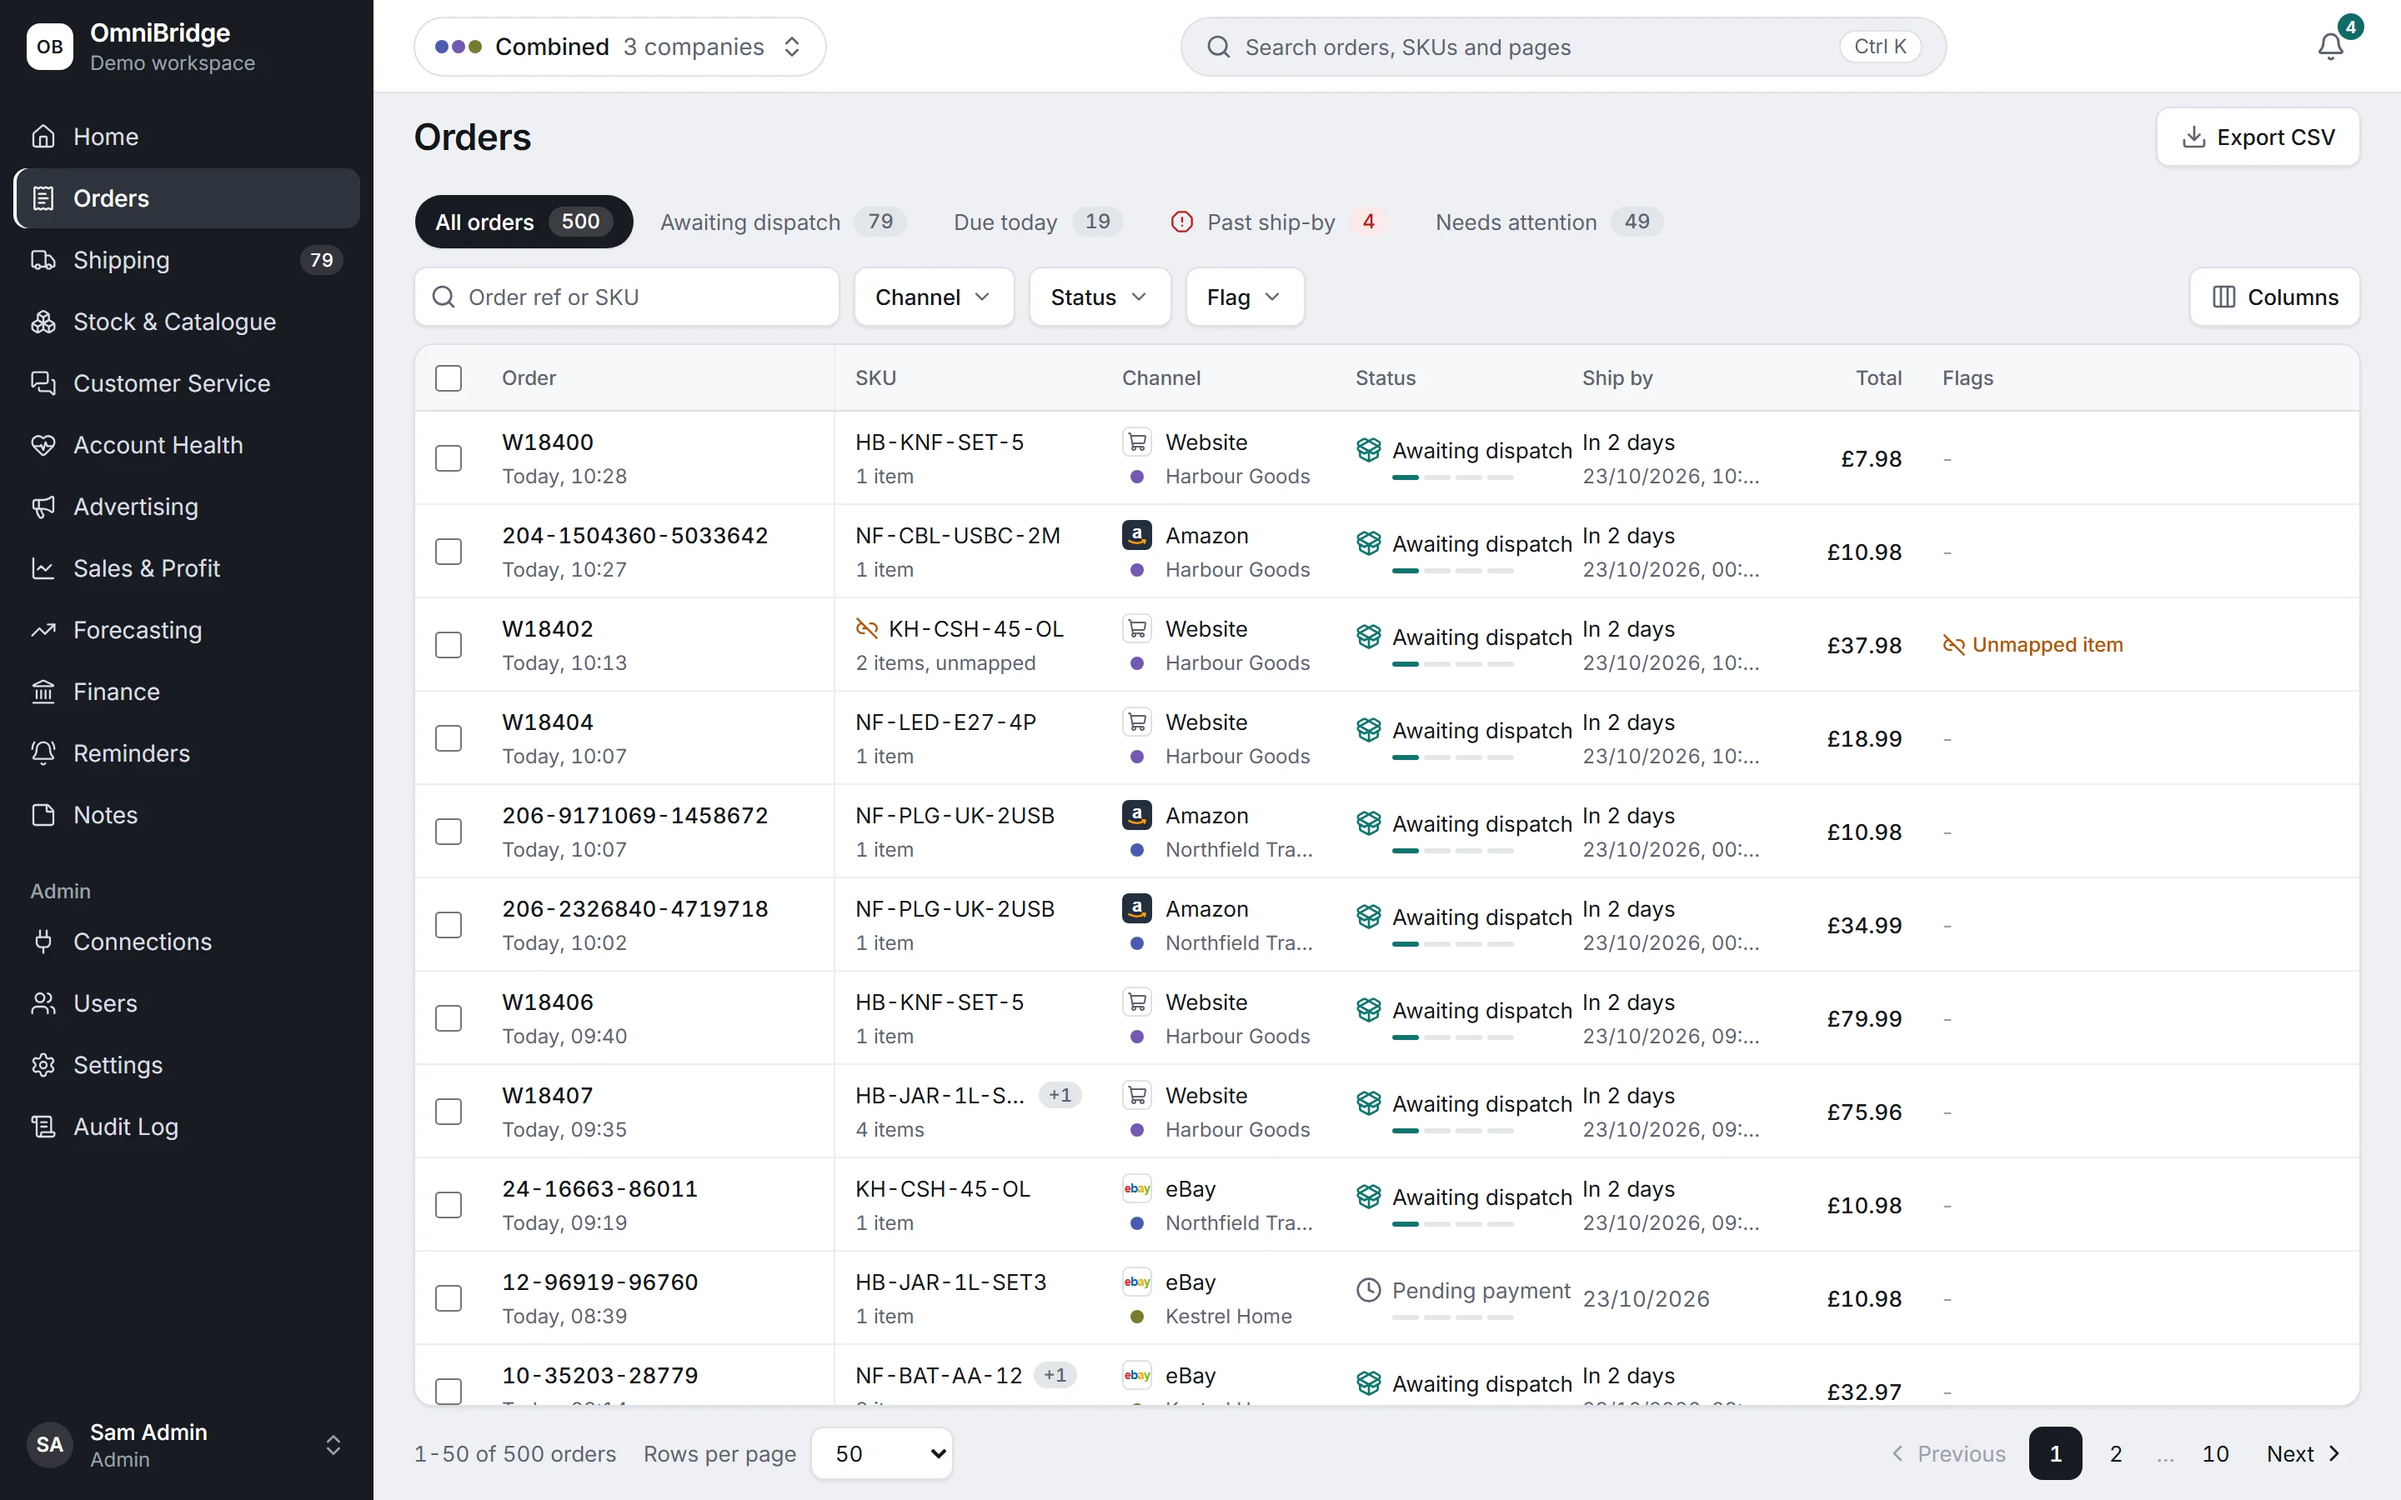
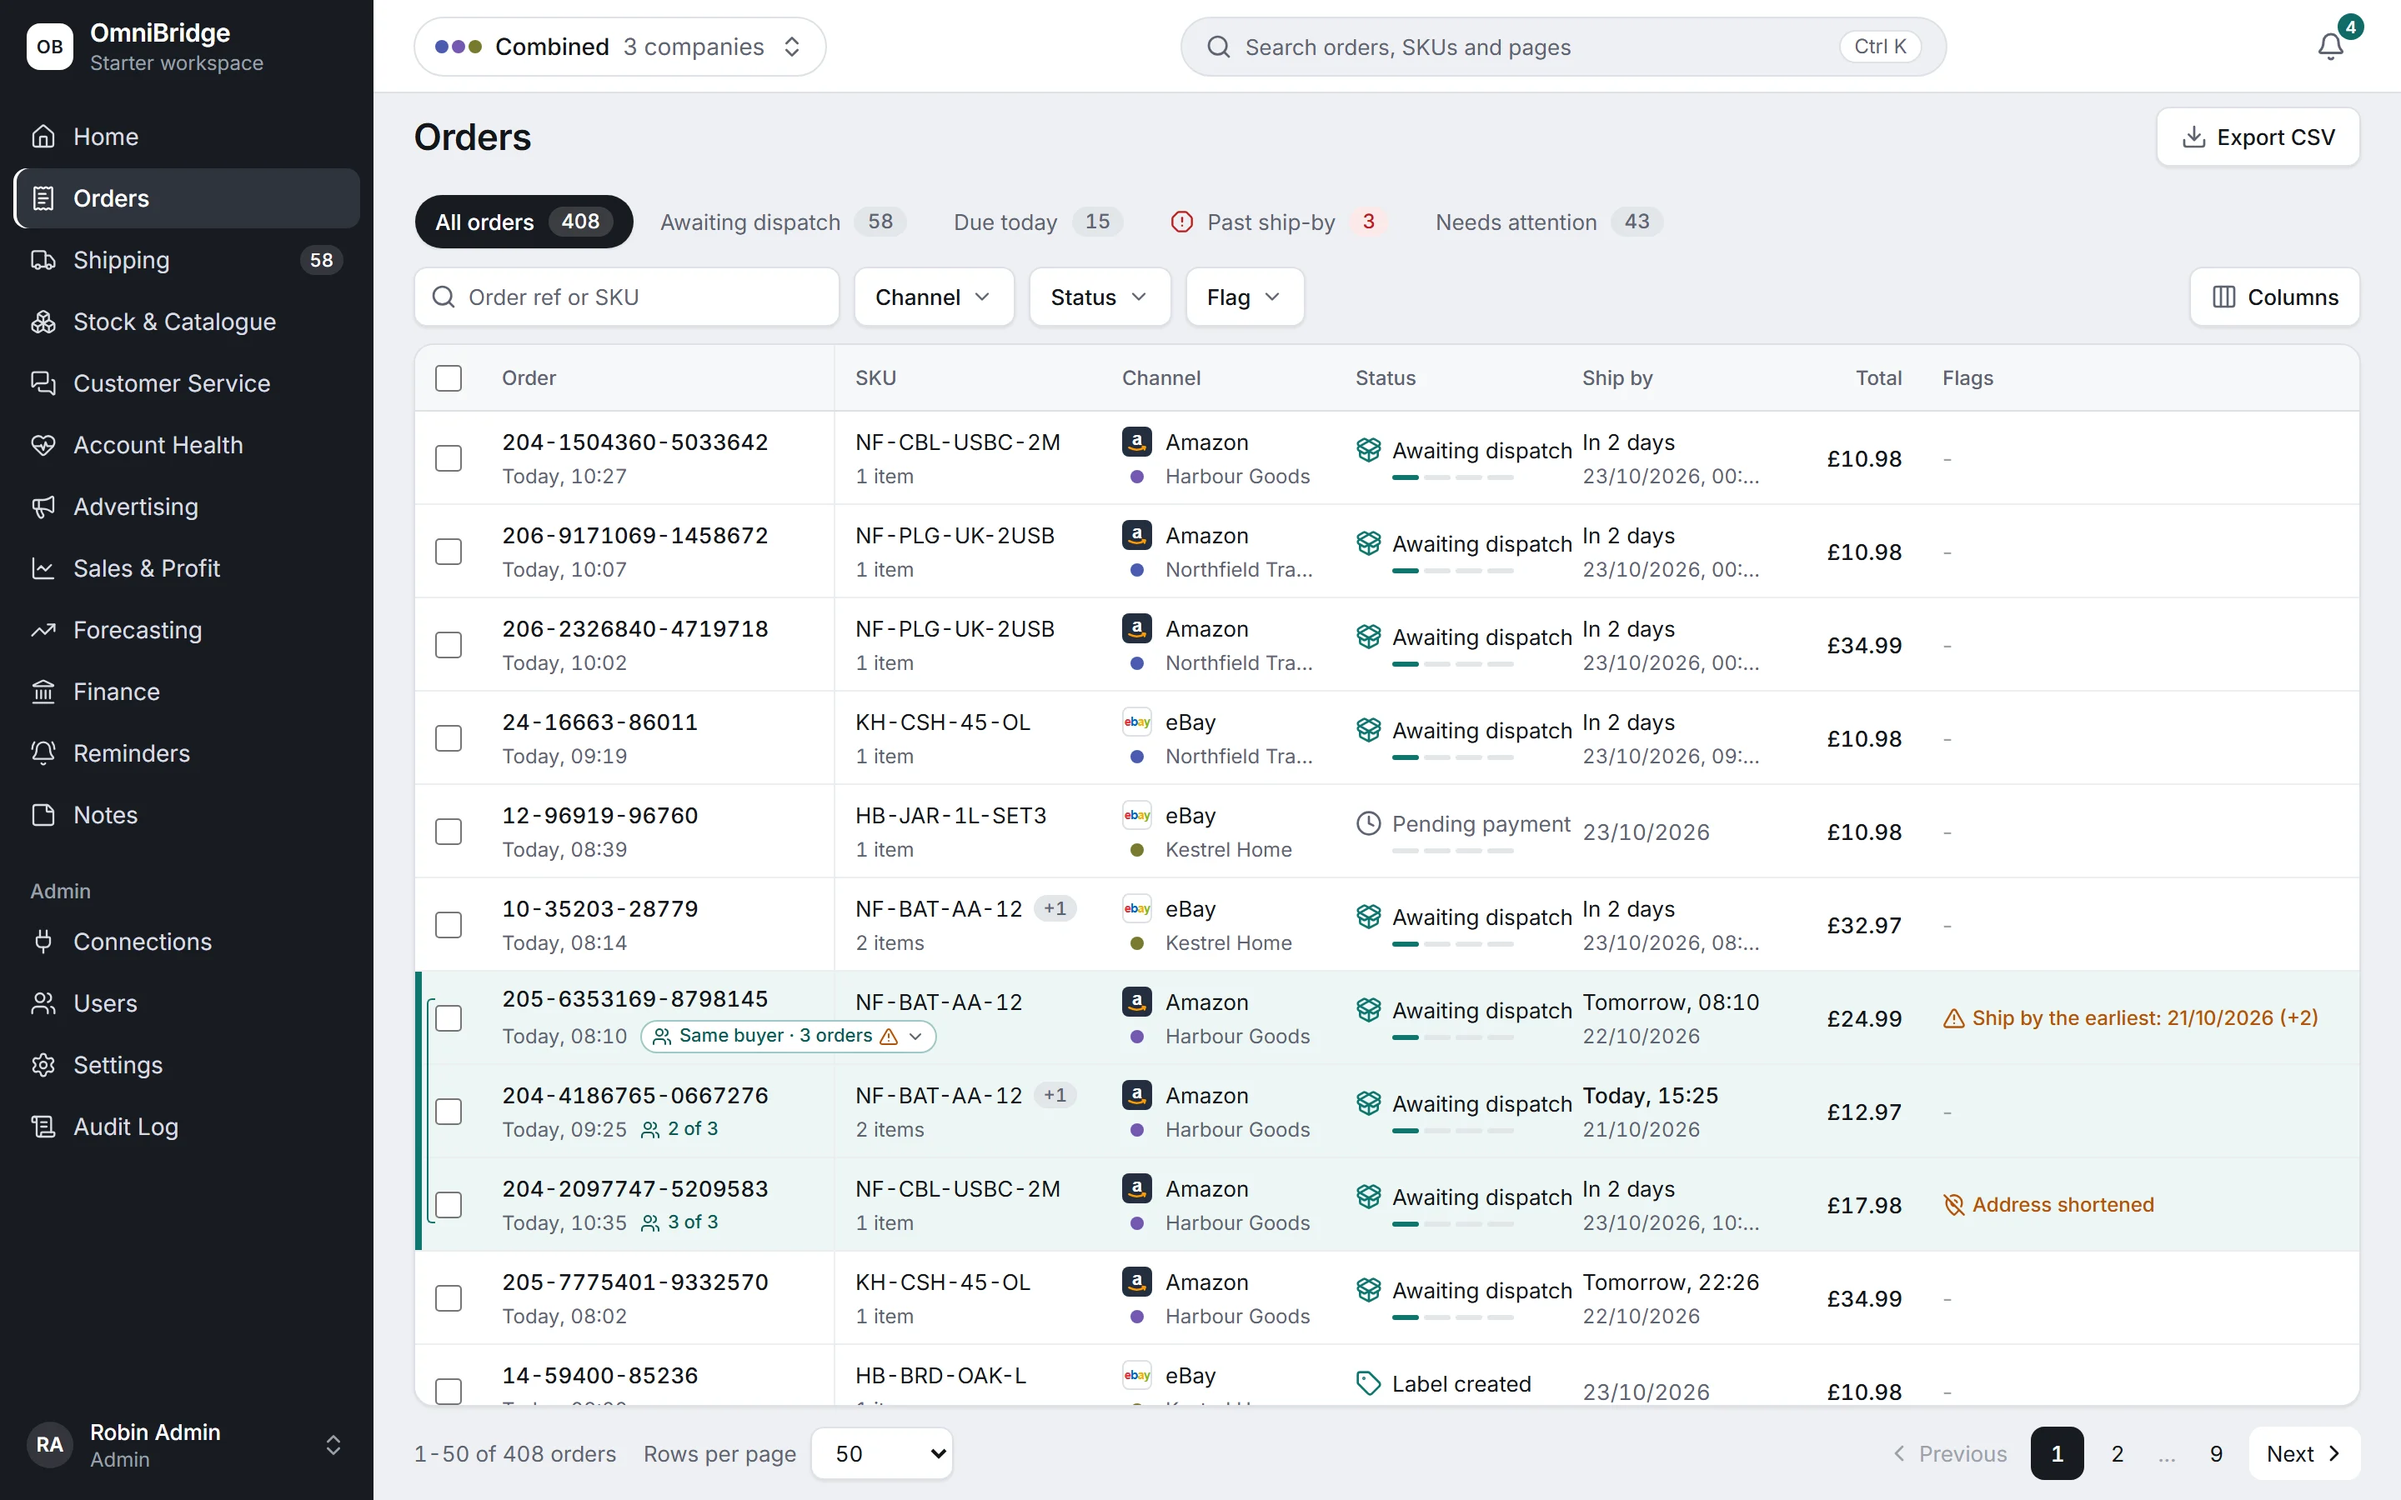
fix(site): no own-website connector offer (ADR-059)
The website connector is client-only for now, so the public site offers
Amazon, eBay, Evri and DPD only: the home bridge figure, copy and
screenshot (retaken from a mock workspace with the connector off), the
features page and the Amazon and eBay stock rows. Legal text unchanged
(Hashir, 17 Nov 2026).

Refs: WWW-4

diff --git a/docs/design/README.md b/docs/design/README.md
@@ -30,7 +30,7 @@ The client's seven changes (`docs/plan/client-changes-20261112.md`) on the same 
 ## Public site (M06, S2 with Hashir, 17 Nov 2026)
 
 - `apps/site`: same tokens as the app (petrol accent, graphite for the one dark band), Inter Variable self-hosted from `@fontsource-variable/inter` 5.3.0 (ADR-036, now also a site dependency) with the latin file preloaded. Page width 84rem; prose 42rem.
-- Home: three-line headline with "marketplace sellers" in petrol; the "bridge" figure (channels → OmniBridge mark → stock, orders, labels, profit and VAT) is static HTML + SVG, no animation; orders screenshot at 2x (2880x1800), never taller than the window.
+- Home: three-line headline with "marketplace sellers" in petrol; the "bridge" figure (Amazon, eBay, Evri and DPD → OmniBridge mark → stock, orders, shipping, profit and VAT; no own-website offer, ADR-059) is static HTML + SVG, no animation; orders screenshot at 2x (2880x1800), never taller than the window.
 - Privacy and terms use `layouts/Legal.astro` (contents list built at build time, wording unchanged). New `/amazon` and `/ebay` pages, wording drafted from PRD 3.1–3.3 and 7.3, pending client review.
 - No script, inline style or outside request (WWW-3, CSP in `infra/docker/site-sws.toml`).
 
